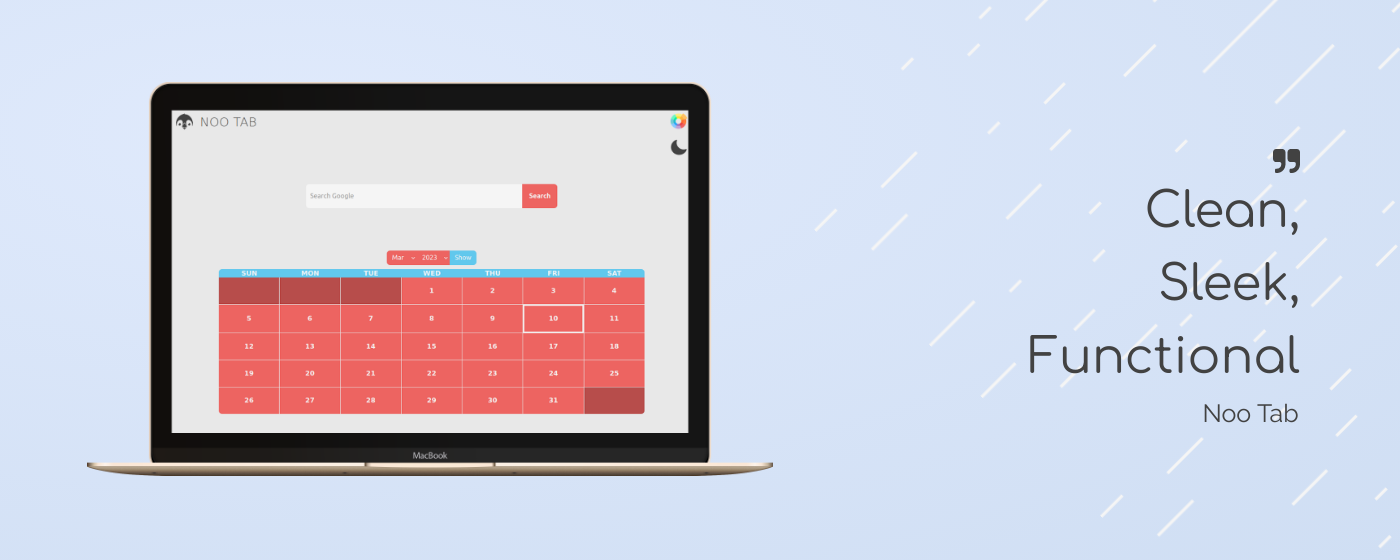
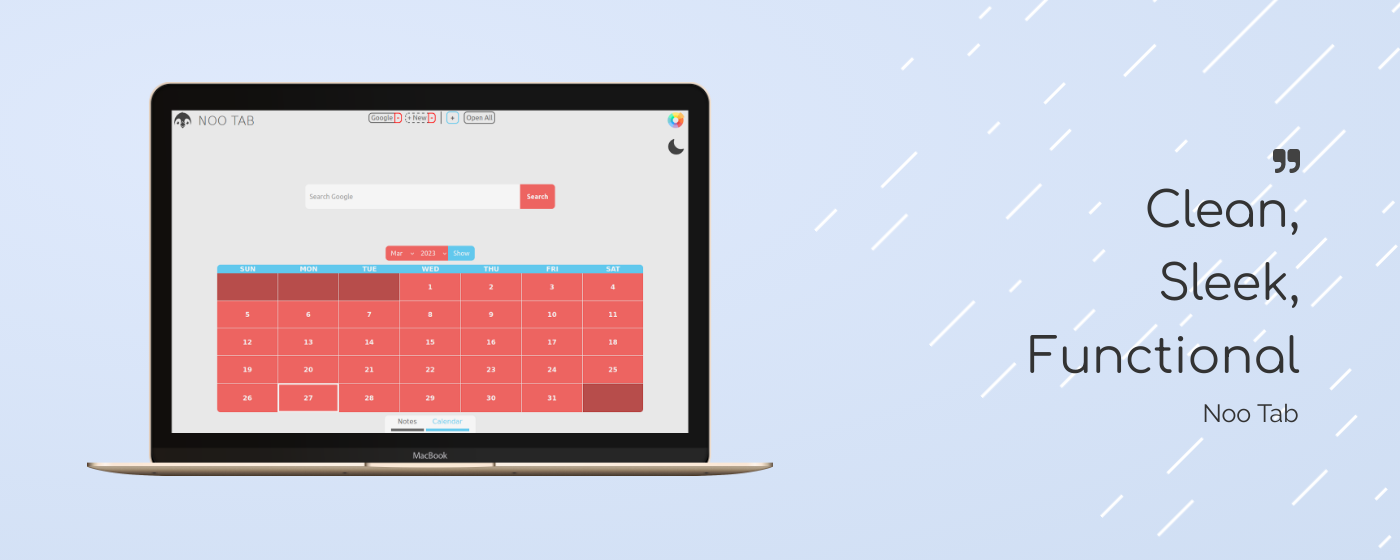
final commit

diff --git a/docs/index.js b/docs/index.js
@@ -1,1 +1,1 @@
-var calendar={monthNamesFull:["January","February","March","April","May","June","July","August","September","October","November","December"],monthNames:["Jan","Feb","Mar","Apr","May","Jun","Jul","Aug","Sep","Oct","Nov","Dec"],dayNames:["SUN","MON","TUE","WED","THU","FRI","SAT"],data:null,curDay:0,curMonth:0,curYear:0,draw:function(){calendar.curMonth=parseInt(document.getElementById("sMonth").value),calendar.curYear=parseInt(document.getElementById("sYear").value);var t=new Date(calendar.curYear,calendar.curMonth+1,0).getDate(),l=new Date(calendar.curYear,calendar.curMonth,1).getDay(),n=new Date(calendar.curYear,calendar.curMonth,t).getDay();calendar.data=localStorage.getItem("calendar"+calendar.curMonth+calendar.curYear),null==calendar.data?(localStorage.setItem("calendar"+calendar.curMonth+calendar.curYear,"{}"),calendar.data={}):calendar.data=JSON.parse(calendar.data);for(var r=[],a=0;a<l;a++)r.push(" ");for(var a=1;a<t+1;a++)r.push(a);for(var a=0;a<6-n;a++)r.push(" ");for(;r.length<42;)r.push(" ");var o=document.getElementById("calContainer"),s=document.createElement("table");s.id="calendar",o.innerHTML="";var c=document.createElement("tr");c.id="dayRow";for(var d=calendar.dayNames,i=d.length,u=document.createDocumentFragment(),a=0;a<i;a++){var m=document.createElement("td");m.innerHTML=d[a],u.appendChild(m)}c.appendChild(u),s.appendChild(c);let y=new Date,p=String(y.getDate()),g=document.createDocumentFragment();for(let v=0;v<6;v++){let h=document.createElement("tr");h.id="day";let E=0;for(let f=0;f<7;f++){let b=document.createElement("td");if(b.innerHTML=r[7*v+f]," "===r[7*v+f])b.id="empty",E++;else{let k=r[7*v+f];if(b.innerHTML=`<div class='cell'>${k}</div>`,calendar.data[k]){let B=y.getFullYear(),I=y.getMonth();if(calendar.curYear===B&&calendar.curMonth===I&&k==p){let $=calendar.data[k].replace(/\n/g,"<br>");b.innerHTML=`<div id="current-day" style="padding: 12px;"><div class='cell'>${k}</div>${$}</div>`,b.style.padding="0px",b.style.position="relative"}else{let L=calendar.data[k].replace(/\n/g,"<br>");b.innerHTML+=L}}else b.style.height="64px",calendar.curYear===y.getFullYear()&&calendar.curMonth===y.getMonth()&&k==p&&(b.innerHTML=`<div id="current-day" style="display: flex;"><div class='cell'>${k}</div></div>`,b.style.padding="0px",b.style.position="relative");b.addEventListener("click",()=>calendar.show(b))}h.appendChild(b)}7!==E&&g.appendChild(h)}s.appendChild(g),o.appendChild(s),calendar.close()},show:function(t){let l=document.getElementById("calEvent"),n=document.createElement("form");n.addEventListener("submit",calendar.save),l.innerHTML="",calendar.curDay=t.querySelector(".cell").textContent;let r="<h1>"+(calendar.data[calendar.curDay]?"EDIT EVENT":"ADD EVENT")+"</h1>";r+="<p>"+calendar.monthNamesFull[calendar.curMonth]+" "+calendar.curDay+", "+calendar.curYear+"</p>",r+="<textarea id='inputDetails' required>"+(calendar.data[calendar.curDay]||"")+"</textarea>",r+="<input type='button' value='Delete' onclick='calendar.delete()'/>",r+="<input type='button' value='Cancel' onclick='calendar.close()'/>",r+="<input type='submit' value='Save'/>",n.innerHTML=r,l.appendChild(n),l.style.display="block",setTimeout(()=>l.classList.add("show"),0);let a=l.querySelector("textarea");a.focus(),a.setSelectionRange(a.value.length,a.value.length),document.addEventListener("click",closeOnClick),document.addEventListener("keydown",closeOnClick)},save:function(t){t.stopPropagation(),t.preventDefault(),calendar.data[calendar.curDay]=document.getElementById("inputDetails").value,localStorage.setItem("calendar"+calendar.curMonth+calendar.curYear,JSON.stringify(calendar.data)),calendar.draw()},delete:function(){if(calendar.data[calendar.curDay])delete calendar.data[calendar.curDay],localStorage.setItem("calendar"+calendar.curMonth+calendar.curYear,JSON.stringify(calendar.data)),calendar.draw();else{var t=document.getElementById("calEvent").querySelector("textarea");t.value="",t.focus()}},close:function(){(e=document.getElementById("calEvent")).classList.remove("show"),e.style.display="none",document.removeEventListener("click",closeOnClick)}};function documentKeyHandler(t){if("Tab"===t.key){if("none"===document.getElementById("calEvent").style.display){t.preventDefault();var l,n=localStorage.getItem("panel-main");"calendar"==n?l="notes":"notes"==n&&(l="calendar"),openMode(l)}}else t.ctrlKey&&"s"===t.key&&"block"==document.getElementById("notes").style.display&&(t.preventDefault(),saveNote())}function logoClick(){let t=document.getElementById("logo");if("#F5F5F5"===localStorage.getItem("colour-mode-back")||null===localStorage.getItem("colour-mode-back"))t.classList.remove("animate"),t.offsetWidth,t.classList.add("animate");else{let l=document.querySelector(".zzz-container"),n=l.querySelectorAll("div");n.forEach(function(t){t.classList.add("zzz-animate"),t.textContent="Z",t.addEventListener("animationend",function(){t.classList.remove("zzz-animate"),t.textContent=""})}),t.classList.remove("pulse"),t.offsetWidth,t.classList.add("pulse")}}function popupClick(){let t=document.querySelector(".popup");localStorage.setItem("popup-dismissed","true"),t.style.display="none"}function collToggle(){this.classList.toggle("active");var t=this.nextElementSibling;t.style.maxHeight?t.style.maxHeight=null:t.style.maxHeight=t.scrollHeight+"px"}function closeOnClick(t){calEvent=document.getElementById("calEvent"),"click"==t.type?!document.querySelector("#calEvent").classList.contains("show")||calEvent.contains(t.target)||t.target.closest("td")&&"dayRow"!=t.target.closest("tr").id&&"empty"!=t.target.closest("td").id||(calendar.close(),document.removeEventListener("click",closeOnClick)):"keydown"==t.type&&"Escape"===t.key&&(calendar.close(),document.removeEventListener("keydown",closeOnClick))}function getTextColor(t){let l=parseInt(t.substr(1,2),16),n=parseInt(t.substr(3,2),16),r=parseInt(t.substr(5,2),16);return .299*l+.587*n+.114*r>186?"#424242":"#F5F5F5"}function toggleDarkMode(){let t=document.querySelector("#darkmode-button img"),l=document.querySelector("#logo img"),n="#F5F5F5",r="#424242";"images/light-mode.png"===t.getAttribute("src")?(t.src="images/dark-mode.png",l.src="images/logo-awake.png",document.documentElement.style.setProperty("--bodyback","#E8E8E8"),document.documentElement.style.setProperty("--modeback",n),document.documentElement.style.setProperty("--modetext",r),localStorage.setItem("colour-mode-back",n),localStorage.setItem("colour-mode-text",r)):(t.src="images/light-mode.png",l.src="images/logo-asleep.png",document.documentElement.style.setProperty("--bodyback","#363636"),document.documentElement.style.setProperty("--modeback",r),document.documentElement.style.setProperty("--modetext",n),localStorage.setItem("colour-mode-back",r),localStorage.setItem("colour-mode-text",n))}function hexToHsv(t){var l,n,r,a=parseInt(t.substring(1,3),16),o=parseInt(t.substring(3,5),16),s=parseInt(t.substring(5,7),16),c=Math.max(a,o,s),d=c-Math.min(a,o,s);return n=0===c?0:d/c,0===d?l=0:(l=a===c?(o-s)/d:o===c?2+(s-a)/d:4+(a-o)/d,(l*=60)<0&&(l+=360)),{h:l,s:n,v:r=c/255}}function hsvToHex(t){"string"==typeof t&&(t=JSON.parse(t));var l,n,r,a=t.v*t.s,o=a*(1-Math.abs(t.h/60%2-1)),s=t.v-a;return t.h>=0&&t.h<60?(l=a,n=o,r=0):t.h>=60&&t.h<120?(l=o,n=a,r=0):t.h>=120&&t.h<180?(l=0,n=a,r=o):t.h>=180&&t.h<240?(l=0,n=o,r=a):t.h>=240&&t.h<300?(l=o,n=0,r=a):(l=a,n=0,r=o),l=Math.round((l+s)*255),"#"+(16777216+(l<<16)+((n=Math.round((n+s)*255))<<8)+(r=Math.round((r+s)*255))).toString(16).slice(1)}function generatePalette(t){var l={},n=t.v-.21;n<0&&(n=t.v+.21);var r=t.v+.08;if(r>1&&(r=t.v-.08),10>Math.abs(98.5-t.h))var a=Math.abs(360-t.h);else var a=Math.abs(197-t.h);var o=t.v+.08;return o>1&&(o=t.v-.08),l.c1={h:t.h,s:t.s,v:n},l.c2={h:t.h,s:t.s,v:r},l.c3={h:a,s:t.s,v:t.v},l.c4={h:a,s:t.s,v:o},l}function openMode(t){var l,n,r;for(l=0,n=document.getElementsByClassName("mode");l<n.length;l++)n[l].style.display="none";for(l=0,r=document.getElementsByClassName("panel-mode");l<n.length;l++)r[l].style.borderBottom="6px solid #646464",r[l].style.color="#646464";document.getElementById(t).style.display="block",document.getElementById(t+"-select").style.borderBottom="6px solid var(--top)",document.getElementById(t+"-select").style.color="var(--top)","notes"==t?(localStorage.setItem("panel-main","notes"),document.getElementById("editor").focus()):"calendar"==t&&(localStorage.setItem("panel-main","calendar"),document.querySelector(".search-bar form input").focus())}function saveNote(){localStorage.setItem("notes-main",document.getElementById("editor").value),document.getElementById("editor-save-btn").textContent="Save",document.getElementById("editor-alert").style.display="none"}function indicateSave(){document.getElementById("editor-save-btn").textContent="*Save",document.getElementById("editor-alert").style.display="block"}function getUrlsFromStorage(){let t=JSON.parse(localStorage.getItem("urls"))||[],l=JSON.parse(localStorage.getItem("url_values"))||[];return{urls:t,values:l}}function saveUrlsToStorage(t,l){localStorage.setItem("urls",JSON.stringify(t)),localStorage.setItem("url_values",JSON.stringify(l))}function addUrlButton(){let t=document.getElementById("urlButtonContainer"),l=document.getElementById("urlDivider"),n=document.createElement("button");n.className="urlButton",n.onclick=function(){goToUrl(this)},n.innerHTML="+ New";let r=document.createElement("button");r.className="minusButton",r.onclick=function(){deleteUrlButton(this)},r.innerHTML="-",t.insertBefore(n,l),t.insertBefore(r,l),localStorage.setItem("emptyURL",!1),updateURLVisibility()}function deleteUrlButton(t){let l=document.getElementById("urlButtonContainer"),n=Array.from(l.children).indexOf(t),r=l.children[n-1],{urls:a,values:o}=getUrlsFromStorage();if(r.dataset.url){let s=a.findIndex(t=>t===r.dataset.url),c=o.findIndex(t=>t===r.dataset.value);s>-1&&a.splice(s,1),c>-1&&o.splice(c,1),saveUrlsToStorage(a,o)}l.removeChild(l.children[n]),l.removeChild(l.children[n-1]),updateURLVisibility()}function updateURLVisibility(){let t=document.getElementById("urlButtonContainer"),l=t.getElementsByClassName("urlButton").length>0;var n=this.localStorage.getItem("emptyURL");if(l&&"true"!=n){t.classList.add("hasSeturlButtons"),localStorage.setItem("emptyURL",!1);var r=document.querySelector(".urlButton.initial"),a=document.querySelector(".minusButton.initial");r&&a&&(r.style.display="block",a.style.display="block")}else t.classList.remove("hasSeturlButtons"),localStorage.setItem("emptyURL","true");"true"==n&&(t.removeChild(t.children[1]),t.removeChild(t.children[0]))}function goToUrl(t){var l=prompt("Enter the URL:"),n=prompt("(Optional) Enter the name:");if(""!==l&&null!=l){(""==n||null==n)&&(n=l.replace(/^(https?:\/\/)?(www\.)?/,"").substring(0,8),l.length>8&&(n+="..")),setupUrlButtons(t,l,n);let{urls:r,values:a}=getUrlsFromStorage();r.push(l),a.push(n),saveUrlsToStorage(r,a)}}function openAllUrls(){let t=document.querySelectorAll(".urlButton");if(t.length>0)for(let l=0;l<t.length;l++){var n=t[l].dataset.url;""!==n&&null!=n&&(n.startsWith("http://")||n.startsWith("https://")||(n="https://"+n),window.open(n,"_blank"))}}function initUrlButtons(){let{urls:t,values:l}=getUrlsFromStorage(),n=document.getElementById("urlButtonContainer"),r=document.getElementById("urlDivider");t.forEach((t,a)=>{let o=document.createElement("button");o.className="urlButton",setupUrlButtons(o,t,l[a]);let s=document.createElement("button");s.className="minusButton",s.onclick=function(){deleteUrlButton(this)},s.innerHTML="-",n.insertBefore(o,r),n.insertBefore(s,r)}),updateURLVisibility()}function setupUrlButtons(t,l,n){t.dataset.value=n,t.dataset.url=l;var r=l;l.startsWith("http://")||l.startsWith("https://")||(r="https://"+l),t.onclick=function(){window.location.href=r},t.innerText=n,t.style.borderStyle="solid",t.style.borderRight="none"}window.addEventListener("load",function(){for(var t,l=new Date,n=document.getElementById("sMonth"),r=document.getElementById("sYear"),t=0;t<12;t++){var a=document.createElement("option");a.value=t,a.innerHTML=calendar.monthNames[t],t==l.getMonth()&&(a.selected=!0),n.appendChild(a)}for(var t=2023;t<l.getFullYear()+6;t++){var a=document.createElement("option");a.value=t,a.innerHTML=t,t==l.getFullYear()&&(a.selected=!0),r.appendChild(a)}document.getElementById("btnShow").addEventListener("click",calendar.draw),calendar.draw(),document.addEventListener("keydown",documentKeyHandler);var o=localStorage.getItem("panel-main")||"calendar";document.getElementById(o).style.display="block",document.getElementById(o+"-select").style.borderBottom="6px solid var(--top)",document.getElementById(o+"-select").style.color="var(--top)",localStorage.setItem("panel-main",o);var s=localStorage.getItem("colour-main")||"#ed6461",c=hexToHsv(s),d=localStorage.getItem("colour-mode-back")||"#F5F5F5",i=localStorage.getItem("colour-mode-text")||"#424242",u=generatePalette(c);document.documentElement.style.setProperty("--main",s),document.documentElement.style.setProperty("--modeback",d),document.documentElement.style.setProperty("--modetext",i),document.documentElement.style.setProperty("--header",getTextColor(hsvToHex(u.c3))),document.documentElement.style.setProperty("--text",getTextColor(s)),document.documentElement.style.setProperty("--empty",hsvToHex(u.c1)),document.documentElement.style.setProperty("--hover",hsvToHex(u.c2)),document.documentElement.style.setProperty("--top",hsvToHex(u.c3)),document.documentElement.style.setProperty("--tophover",hsvToHex(u.c4));let m=document.querySelector(".colour-picker-button"),y=document.querySelector(".colour-picker-button img");y.src="images/colour-wheel.png",m.addEventListener("click",function(){let t=document.createElement("input");t.type="color",t.addEventListener("change",function(){var l=t.value,n=hexToHsv(l),r=generatePalette(n);document.documentElement.style.setProperty("--main",l),document.documentElement.style.setProperty("--header",getTextColor(hsvToHex(r.c3))),document.documentElement.style.setProperty("--text",getTextColor(l)),document.documentElement.style.setProperty("--empty",hsvToHex(r.c1)),document.documentElement.style.setProperty("--hover",hsvToHex(r.c2)),document.documentElement.style.setProperty("--top",hsvToHex(r.c3)),document.documentElement.style.setProperty("--tophover",hsvToHex(r.c4)),localStorage.setItem("colour-main",l)}),t.click(),t.addEventListener("blur",function(){t.remove()}),document.addEventListener("click",function(l){t.contains(l.target)||l.target===m||t.remove()})});let p=document.querySelector("#darkmode-button"),g=document.querySelector("#darkmode-button img"),v=document.querySelector("#logo img");"#424242"==d?(g.src="images/light-mode.png",v.src="images/logo-asleep.png",document.documentElement.style.setProperty("--bodyback","#363636")):(g.src="images/dark-mode.png",v.src="images/logo-awake.png",document.documentElement.style.setProperty("--bodyback","#E8E8E8")),p.addEventListener("click",toggleDarkMode);let h=document.querySelector(".popup");localStorage.getItem("popup-dismissed")?h.style.display="none":h.style.display="block",document.getElementById("close-popup").addEventListener("click",popupClick);var E=document.getElementsByClassName("collapsible");for(t=0;t<E.length;t++)E[t].addEventListener("click",collToggle);document.getElementById("logo").addEventListener("click",logoClick);var f=document.querySelector(".search-bar form input");f.focus(),f.style.background="var(--modeback)";var f=document.querySelector(".search-bar form button");f.style.background="var(--main)",document.querySelector(".panel-select").style.background="var(--modeback)",document.querySelector("#plusButton").style.display="block",initUrlButtons();var b=JSON.parse(localStorage.getItem("urls"));if(b&&b.length>0){let k=document.getElementById("urlButtonContainer");k.removeChild(k.children[1]),k.removeChild(k.children[0])}let B=localStorage.getItem("notes-main")||"";document.getElementById("editor").value=B,document.getElementById("editor-save-btn").addEventListener("click",saveNote),document.getElementById("editor").addEventListener("input",indicateSave)});
+var calendar={monthNamesFull:["January","February","March","April","May","June","July","August","September","October","November","December"],monthNames:["Jan","Feb","Mar","Apr","May","Jun","Jul","Aug","Sep","Oct","Nov","Dec"],dayNames:["SUN","MON","TUE","WED","THU","FRI","SAT"],data:null,curDay:0,curMonth:0,curYear:0,draw:function(){calendar.curMonth=parseInt(document.getElementById("sMonth").value),calendar.curYear=parseInt(document.getElementById("sYear").value);var t=new Date(calendar.curYear,calendar.curMonth+1,0).getDate(),l=new Date(calendar.curYear,calendar.curMonth,1).getDay(),n=new Date(calendar.curYear,calendar.curMonth,t).getDay();calendar.data=localStorage.getItem("calendar"+calendar.curMonth+calendar.curYear),null==calendar.data?(localStorage.setItem("calendar"+calendar.curMonth+calendar.curYear,"{}"),calendar.data={}):calendar.data=JSON.parse(calendar.data);for(var r=[],a=0;a<l;a++)r.push(" ");for(var a=1;a<t+1;a++)r.push(a);for(var a=0;a<6-n;a++)r.push(" ");for(;r.length<42;)r.push(" ");var o=document.getElementById("calContainer"),s=document.createElement("table");s.id="calendar",o.innerHTML="";var c=document.createElement("tr");c.id="dayRow";for(var d=calendar.dayNames,i=d.length,u=document.createDocumentFragment(),a=0;a<i;a++){var m=document.createElement("td");m.innerHTML=d[a],u.appendChild(m)}c.appendChild(u),s.appendChild(c);let y=new Date,p=String(y.getDate()),g=document.createDocumentFragment();for(let v=0;v<6;v++){let h=document.createElement("tr");h.id="day";let E=0;for(let f=0;f<7;f++){let b=document.createElement("td");if(b.innerHTML=r[7*v+f]," "===r[7*v+f])b.id="empty",E++;else{let k=r[7*v+f];if(b.innerHTML=`<div class='cell'>${k}</div>`,calendar.data[k]){let I=y.getFullYear(),B=y.getMonth();if(calendar.curYear===I&&calendar.curMonth===B&&k==p){let $=calendar.data[k].replace(/\n/g,"<br>");b.innerHTML=`<div id="current-day" style="padding: 12px;"><div class='cell'>${k}</div>${$}</div>`,b.style.padding="0px",b.style.position="relative"}else{let L=calendar.data[k].replace(/\n/g,"<br>");b.innerHTML+=L}}else b.style.height="64px",calendar.curYear===y.getFullYear()&&calendar.curMonth===y.getMonth()&&k==p&&(b.innerHTML=`<div id="current-day" style="display: flex;"><div class='cell'>${k}</div></div>`,b.style.padding="0px",b.style.position="relative");b.addEventListener("click",()=>calendar.show(b))}h.appendChild(b)}7!==E&&g.appendChild(h)}s.appendChild(g),o.appendChild(s),calendar.close()},show:function(t){let l=document.getElementById("calEvent"),n=document.createElement("form");n.addEventListener("submit",calendar.save),l.innerHTML="",calendar.curDay=t.querySelector(".cell").textContent;let r="<h1>"+(calendar.data[calendar.curDay]?"EDIT EVENT":"ADD EVENT")+"</h1>";r+="<p>"+calendar.monthNamesFull[calendar.curMonth]+" "+calendar.curDay+", "+calendar.curYear+"</p>",r+="<textarea id='inputDetails' required>"+(calendar.data[calendar.curDay]||"")+"</textarea>",r+="<input type='button' value='Delete' onclick='calendar.delete()'/>",r+="<input type='button' value='Cancel' onclick='calendar.close()'/>",r+="<input type='submit' value='Save'/>",n.innerHTML=r,l.appendChild(n),l.style.display="block",setTimeout(()=>l.classList.add("show"),0);let a=l.querySelector("textarea");a.focus(),a.setSelectionRange(a.value.length,a.value.length),document.addEventListener("click",closeOnClick),document.addEventListener("keydown",closeOnClick)},save:function(t){t.stopPropagation(),t.preventDefault(),calendar.data[calendar.curDay]=document.getElementById("inputDetails").value,localStorage.setItem("calendar"+calendar.curMonth+calendar.curYear,JSON.stringify(calendar.data)),calendar.draw()},delete:function(){if(calendar.data[calendar.curDay])delete calendar.data[calendar.curDay],localStorage.setItem("calendar"+calendar.curMonth+calendar.curYear,JSON.stringify(calendar.data)),calendar.draw();else{var t=document.getElementById("calEvent").querySelector("textarea");t.value="",t.focus()}},close:function(){(e=document.getElementById("calEvent")).classList.remove("show"),e.style.display="none",document.removeEventListener("click",closeOnClick)}};function documentKeyHandler(t){if("Tab"===t.key){if("none"===document.getElementById("calEvent").style.display){t.preventDefault();var l,n=localStorage.getItem("panel-main");"calendar"==n?l="notes":"notes"==n&&(l="calendar"),openMode(l)}}else t.ctrlKey&&"s"===t.key&&"block"==document.getElementById("notes").style.display&&(t.preventDefault(),saveNote())}function logoClick(){let t=document.getElementById("logo");if("#F5F5F5"===localStorage.getItem("colour-mode-back")||null===localStorage.getItem("colour-mode-back"))t.classList.remove("animate"),t.offsetWidth,t.classList.add("animate");else{let l=document.querySelector(".zzz-container"),n=l.querySelectorAll("div");n.forEach(function(t){t.classList.add("zzz-animate"),t.textContent="Z",t.addEventListener("animationend",function(){t.classList.remove("zzz-animate"),t.textContent=""})}),t.classList.remove("pulse"),t.offsetWidth,t.classList.add("pulse")}}function popupClick(){let t=document.querySelector(".popup");localStorage.setItem("popup-dismissed","true"),t.style.display="none"}function collToggle(){this.classList.toggle("active");var t=this.nextElementSibling;t.style.maxHeight?t.style.maxHeight=null:t.style.maxHeight=t.scrollHeight+"px"}function closeOnClick(t){calEvent=document.getElementById("calEvent"),"click"==t.type?!document.querySelector("#calEvent").classList.contains("show")||calEvent.contains(t.target)||t.target.closest("td")&&"dayRow"!=t.target.closest("tr").id&&"empty"!=t.target.closest("td").id||(calendar.close(),document.removeEventListener("click",closeOnClick)):"keydown"==t.type&&"Escape"===t.key&&(calendar.close(),document.removeEventListener("keydown",closeOnClick))}function getTextColor(t){let l=parseInt(t.substr(1,2),16),n=parseInt(t.substr(3,2),16),r=parseInt(t.substr(5,2),16);return .299*l+.587*n+.114*r>186?"#424242":"#F5F5F5"}function toggleDarkMode(){let t=document.querySelector("#darkmode-button img"),l=document.querySelector("#logo img"),n="#F5F5F5",r="#424242";"images/light-mode.png"===t.getAttribute("src")?(t.src="images/dark-mode.png",l.src="images/logo-awake.png",document.documentElement.style.setProperty("--bodyback","#E8E8E8"),document.documentElement.style.setProperty("--popupback","#646464"),document.documentElement.style.setProperty("--modeback",n),document.documentElement.style.setProperty("--modetext",r),localStorage.setItem("popup-back","#646464"),localStorage.setItem("colour-mode-back",n),localStorage.setItem("colour-mode-text",r)):(t.src="images/light-mode.png",l.src="images/logo-asleep.png",document.documentElement.style.setProperty("--bodyback","#363636"),document.documentElement.style.setProperty("--popupback","#E8E8E8"),document.documentElement.style.setProperty("--modeback",r),document.documentElement.style.setProperty("--modetext",n),localStorage.setItem("popup-back","#E8E8E8"),localStorage.setItem("colour-mode-back",r),localStorage.setItem("colour-mode-text",n))}function hexToHsv(t){var l,n,r,a=parseInt(t.substring(1,3),16),o=parseInt(t.substring(3,5),16),s=parseInt(t.substring(5,7),16),c=Math.max(a,o,s),d=c-Math.min(a,o,s);return n=0===c?0:d/c,0===d?l=0:(l=a===c?(o-s)/d:o===c?2+(s-a)/d:4+(a-o)/d,(l*=60)<0&&(l+=360)),{h:l,s:n,v:r=c/255}}function hsvToHex(t){"string"==typeof t&&(t=JSON.parse(t));var l,n,r,a=t.v*t.s,o=a*(1-Math.abs(t.h/60%2-1)),s=t.v-a;return t.h>=0&&t.h<60?(l=a,n=o,r=0):t.h>=60&&t.h<120?(l=o,n=a,r=0):t.h>=120&&t.h<180?(l=0,n=a,r=o):t.h>=180&&t.h<240?(l=0,n=o,r=a):t.h>=240&&t.h<300?(l=o,n=0,r=a):(l=a,n=0,r=o),l=Math.round((l+s)*255),"#"+(16777216+(l<<16)+((n=Math.round((n+s)*255))<<8)+(r=Math.round((r+s)*255))).toString(16).slice(1)}function generatePalette(t){var l={},n=t.v-.21;n<0&&(n=t.v+.21);var r=t.v+.08;if(r>1&&(r=t.v-.08),10>Math.abs(98.5-t.h))var a=Math.abs(360-t.h);else var a=Math.abs(197-t.h);var o=t.v+.08;return o>1&&(o=t.v-.08),l.c1={h:t.h,s:t.s,v:n},l.c2={h:t.h,s:t.s,v:r},l.c3={h:a,s:t.s,v:t.v},l.c4={h:a,s:t.s,v:o},l}function openMode(t){var l,n,r;for(l=0,n=document.getElementsByClassName("mode");l<n.length;l++)n[l].style.display="none";for(l=0,r=document.getElementsByClassName("panel-mode");l<n.length;l++)r[l].style.borderBottom="6px solid #646464",r[l].style.color="#646464";document.getElementById(t).style.display="block",document.getElementById(t+"-select").style.borderBottom="6px solid var(--top)",document.getElementById(t+"-select").style.color="var(--top)","notes"==t?(localStorage.setItem("panel-main","notes"),document.getElementById("editor").focus()):"calendar"==t&&(localStorage.setItem("panel-main","calendar"),document.querySelector(".search-bar form input").focus())}function saveNote(){localStorage.setItem("notes-main",document.getElementById("editor").value),document.getElementById("editor-save-btn").textContent="Save",document.getElementById("editor-alert").style.display="none"}function indicateSave(){document.getElementById("editor-save-btn").textContent="*Save",document.getElementById("editor-alert").style.display="block"}function getUrlsFromStorage(){let t=JSON.parse(localStorage.getItem("urls"))||[],l=JSON.parse(localStorage.getItem("url_values"))||[];return{urls:t,values:l}}function saveUrlsToStorage(t,l){localStorage.setItem("urls",JSON.stringify(t)),localStorage.setItem("url_values",JSON.stringify(l))}function addUrlButton(){let t=document.getElementById("urlButtonContainer"),l=document.getElementById("urlDivider"),n=document.createElement("button");n.className="urlButton",n.onclick=function(){goToUrl(this)},n.innerHTML="+ New";let r=document.createElement("button");r.className="minusButton",r.onclick=function(){deleteUrlButton(this)},r.innerHTML="-",t.insertBefore(n,l),t.insertBefore(r,l),localStorage.setItem("emptyURL",!1),updateURLVisibility()}function deleteUrlButton(t){let l=document.getElementById("urlButtonContainer"),n=Array.from(l.children).indexOf(t),r=l.children[n-1],{urls:a,values:o}=getUrlsFromStorage();if(r.dataset.url){let s=a.findIndex(t=>t===r.dataset.url),c=o.findIndex(t=>t===r.dataset.value);s>-1&&a.splice(s,1),c>-1&&o.splice(c,1),saveUrlsToStorage(a,o)}l.removeChild(l.children[n]),l.removeChild(l.children[n-1]),updateURLVisibility()}function updateURLVisibility(){let t=document.getElementById("urlButtonContainer"),l=t.getElementsByClassName("urlButton").length>0;var n=this.localStorage.getItem("emptyURL");if(l&&"true"!=n){t.classList.add("hasSeturlButtons"),localStorage.setItem("emptyURL",!1);var r=document.querySelector(".urlButton.initial"),a=document.querySelector(".minusButton.initial");r&&a&&(r.style.display="block",a.style.display="block")}else t.classList.remove("hasSeturlButtons"),localStorage.setItem("emptyURL","true");"true"==n&&(t.removeChild(t.children[1]),t.removeChild(t.children[0]))}function goToUrl(t){var l=prompt("Enter the URL:"),n=prompt("(Optional) Enter the name:");if(""!==l&&null!=l){(""==n||null==n)&&(n=l.replace(/^(https?:\/\/)?(www\.)?/,"").substring(0,8),l.length>8&&(n+="..")),setupUrlButtons(t,l,n);let{urls:r,values:a}=getUrlsFromStorage();r.push(l),a.push(n),saveUrlsToStorage(r,a)}}function openAllUrls(){let t=document.querySelectorAll(".urlButton");if(t.length>0)for(let l=0;l<t.length;l++){var n=t[l].dataset.url;""!==n&&null!=n&&(n.startsWith("http://")||n.startsWith("https://")||(n="https://"+n),window.open(n,"_blank"))}}function initUrlButtons(){let{urls:t,values:l}=getUrlsFromStorage(),n=document.getElementById("urlButtonContainer"),r=document.getElementById("urlDivider");t.forEach((t,a)=>{let o=document.createElement("button");o.className="urlButton",setupUrlButtons(o,t,l[a]);let s=document.createElement("button");s.className="minusButton",s.onclick=function(){deleteUrlButton(this)},s.innerHTML="-",n.insertBefore(o,r),n.insertBefore(s,r)}),updateURLVisibility()}function setupUrlButtons(t,l,n){t.dataset.value=n,t.dataset.url=l;var r=l;l.startsWith("http://")||l.startsWith("https://")||(r="https://"+l),t.onclick=function(){window.location.href=r},t.innerText=n,t.style.borderStyle="solid",t.style.borderRight="none"}window.addEventListener("load",function(){for(var t,l=new Date,n=document.getElementById("sMonth"),r=document.getElementById("sYear"),t=0;t<12;t++){var a=document.createElement("option");a.value=t,a.innerHTML=calendar.monthNames[t],t==l.getMonth()&&(a.selected=!0),n.appendChild(a)}for(var t=2023;t<l.getFullYear()+6;t++){var a=document.createElement("option");a.value=t,a.innerHTML=t,t==l.getFullYear()&&(a.selected=!0),r.appendChild(a)}document.getElementById("btnShow").addEventListener("click",calendar.draw),calendar.draw(),document.addEventListener("keydown",documentKeyHandler);var o=localStorage.getItem("panel-main")||"calendar";document.getElementById(o).style.display="block",document.getElementById(o+"-select").style.borderBottom="6px solid var(--top)",document.getElementById(o+"-select").style.color="var(--top)",localStorage.setItem("panel-main",o);var s=localStorage.getItem("colour-main")||"#ed6461",c=hexToHsv(s),d=localStorage.getItem("colour-mode-back")||"#F5F5F5",i=localStorage.getItem("colour-mode-text")||"#424242",u=localStorage.getItem("popup-back")||"#646464",m=generatePalette(c);document.documentElement.style.setProperty("--main",s),document.documentElement.style.setProperty("--modeback",d),document.documentElement.style.setProperty("--modetext",i),document.documentElement.style.setProperty("--popupback",u),document.documentElement.style.setProperty("--header",getTextColor(hsvToHex(m.c3))),document.documentElement.style.setProperty("--text",getTextColor(s)),document.documentElement.style.setProperty("--empty",hsvToHex(m.c1)),document.documentElement.style.setProperty("--hover",hsvToHex(m.c2)),document.documentElement.style.setProperty("--top",hsvToHex(m.c3)),document.documentElement.style.setProperty("--tophover",hsvToHex(m.c4));let y=document.querySelector(".colour-picker-button"),p=document.querySelector(".colour-picker-button img");p.src="images/colour-wheel.png",y.addEventListener("click",function(){let t=document.createElement("input");t.type="color",t.addEventListener("change",function(){var l=t.value,n=hexToHsv(l),r=generatePalette(n);document.documentElement.style.setProperty("--main",l),document.documentElement.style.setProperty("--header",getTextColor(hsvToHex(r.c3))),document.documentElement.style.setProperty("--text",getTextColor(l)),document.documentElement.style.setProperty("--empty",hsvToHex(r.c1)),document.documentElement.style.setProperty("--hover",hsvToHex(r.c2)),document.documentElement.style.setProperty("--top",hsvToHex(r.c3)),document.documentElement.style.setProperty("--tophover",hsvToHex(r.c4)),localStorage.setItem("colour-main",l)}),t.click(),t.addEventListener("blur",function(){t.remove()}),document.addEventListener("click",function(l){t.contains(l.target)||l.target===y||t.remove()})});let g=document.querySelector("#darkmode-button"),v=document.querySelector("#darkmode-button img"),h=document.querySelector("#logo img");"#424242"==d?(v.src="images/light-mode.png",h.src="images/logo-asleep.png",document.documentElement.style.setProperty("--bodyback","#363636")):(v.src="images/dark-mode.png",h.src="images/logo-awake.png",document.documentElement.style.setProperty("--bodyback","#E8E8E8")),g.addEventListener("click",toggleDarkMode);let E=document.querySelector(".popup");localStorage.getItem("popup-dismissed")?E.style.display="none":E.style.display="block",document.getElementById("close-popup").addEventListener("click",popupClick);var f=document.getElementsByClassName("collapsible");for(t=0;t<f.length;t++)f[t].addEventListener("click",collToggle);document.getElementById("logo").addEventListener("click",logoClick);var b=document.querySelector(".search-bar form input");b.focus(),b.style.background="var(--modeback)";var b=document.querySelector(".search-bar form button");b.style.background="var(--main)",document.querySelector(".panel-select").style.background="var(--modeback)",document.querySelector("#plusButton").style.display="block",initUrlButtons();var k=JSON.parse(localStorage.getItem("urls"));if(k&&k.length>0){let I=document.getElementById("urlButtonContainer");I.removeChild(I.children[1]),I.removeChild(I.children[0])}let B=localStorage.getItem("notes-main")||"";document.getElementById("editor").value=B,document.getElementById("editor-save-btn").addEventListener("click",saveNote),document.getElementById("editor").addEventListener("input",indicateSave)});

diff --git a/docs/index.html b/docs/index.html
@@ -21,7 +21,7 @@
 		<div id="popup" class="popup">
 			<span class="close" id="close-popup">&times;</span>
 			<p>Welcome to Noo Tab!</p>
-			<button type="button" class="collapsible" id="collapsible-first">Using the Calendar</button>
+			<button type="button" class="collapsible border">Using the Calendar</button>
 			<div class="content">
 				<p><b>Adding, Removing, and Editing Events</b></p>
 				<p>Click a day on the calendar.</p>
@@ -32,9 +32,28 @@
 				<p>Choose a month and year from the dropdown menus.</p>
 				<p>Click "Show" to switch to the chosen month and year.</p>
 			</div>
+			<button type="button" class="collapsible border">Using Bookmarks</button>
+			<div class="content">
+				<p><b>Adding and Removing Bookmarks</b></p>
+				<p>Click the plus button at the top of the page.</p>
+				<p>Click on the "+ New" bookmark and enter the URL.</p>
+				<p>(Optional) Add a name to your bookmark.</p>
+				<p>Click the minus button next to a bookmark to remove it.</p>
+				<p><b>Opening Bookmarks</b></p>
+				<p>Click a bookmark to open it in the current tab.</p>
+				<p>Open all bookmarks in separate tabs by clicking "Open All".</p>
+				<div id="popup-warning">
+					<p>Your browser may block multiple tabs from opening the first time you use the "Open All" feature.</p>
+					<p>Allow popups from nootab.com in the prompt that appears if you want the "Open All" feature to work fully.</p>
+				</div>
+			</div>
 			<button type="button" class="collapsible">Additional Features</button>
 			<div class="content">
-				<p><b>Colour Wheel</b></p>
+				<p><b>Navigation</b></p>
+				<p>Switch between calendar and notes view using the tabs at the bottom of the screen or by pressing the tab key.</p>
+				<b>Notes</b>
+				<p>Take notes using the notes tab and save them securely by clicking the save button or using the keyboard shortcut Ctrl+S.<br><br>Your data will be stored locally in your browser.</p>
+				<b>Colour Wheel</b>
 				<p>Click to change the site's colour theme.</p>
 				<b>Dark Mode Toggle</b>
 				<p>Use the icon to switch between dark and light mode.</p>

diff --git a/index-clean.js b/index-clean.js
@@ -238,11 +238,13 @@ window.addEventListener("load", function() {
 	var main_colour_hsv = hexToHsv(main_colour);
 	var main_mode_back = localStorage.getItem("colour-mode-back") || '#F5F5F5';
 	var main_mode_text = localStorage.getItem("colour-mode-text") || '#424242';
+    var main_popup_back = localStorage.getItem("popup-back") || '#646464';
 
 	var palette = generatePalette(main_colour_hsv);
 	document.documentElement.style.setProperty('--main', main_colour);
 	document.documentElement.style.setProperty('--modeback', main_mode_back);
 	document.documentElement.style.setProperty('--modetext', main_mode_text);
+    document.documentElement.style.setProperty('--popupback', main_popup_back);
 	document.documentElement.style.setProperty('--header', getTextColor(hsvToHex(palette.c3)));
 	document.documentElement.style.setProperty('--text', getTextColor(main_colour));
 	document.documentElement.style.setProperty('--empty', hsvToHex(palette.c1));
@@ -459,16 +461,20 @@ function toggleDarkMode() {
 		darkmode_image.src = 'images/dark-mode.png';
 		logo.src = "images/logo-awake.png";
 		document.documentElement.style.setProperty('--bodyback', "#E8E8E8");
+        document.documentElement.style.setProperty('--popupback', "#646464");
 		document.documentElement.style.setProperty('--modeback', light);
 		document.documentElement.style.setProperty('--modetext', dark);
+		localStorage.setItem('popup-back', "#646464");
 		localStorage.setItem('colour-mode-back', light);
 		localStorage.setItem('colour-mode-text', dark);
 	} else {
 		darkmode_image.src = 'images/light-mode.png';
 		logo.src = "images/logo-asleep.png";
 		document.documentElement.style.setProperty('--bodyback', "#363636");
+        document.documentElement.style.setProperty('--popupback', "#E8E8E8");
 		document.documentElement.style.setProperty('--modeback', dark);
 		document.documentElement.style.setProperty('--modetext', light);
+		localStorage.setItem('popup-back', "#E8E8E8");
 		localStorage.setItem('colour-mode-back', dark);
 		localStorage.setItem('colour-mode-text', light);
 	}

diff --git a/docs/index.css b/docs/index.css
@@ -10,6 +10,7 @@
 	--hover: #ff7572;
 	--tophover: #ff7572;
 	--backtext: #646464;
+	--popupback: #646464;
 }
 
 body {
@@ -363,6 +364,14 @@ th {
 	color: var(--modeback);
 }
 
+#popup-warning {
+	color: var(--modeback);
+	background: var(--popupback);
+	border-radius: 8px;
+	padding: 1px 6px 1px 6px;
+	margin-bottom: 16px;
+}
+
 .close {
 	position: absolute;
 	top: 0;
@@ -402,14 +411,16 @@ th {
 	font-weight: bold;
 }
 
-#collapsible-first {
+.collapsible.border {
 	border-bottom: 1px solid var(--modetext);
 }
 
-.active#collapsible-first,
+.active.collapsible.border {
+	border-bottom: none;
+}
+
 .collapsible:hover {
 	background-color: var(--hover);
-	border-bottom: none;
 }
 
 .active,
@@ -749,9 +760,9 @@ th {
 }
 
 .minusButton {
-  border: 2px solid red;
+  border: 2px solid #ff5353;
   background: transparent;
-  color: red;
+  color: #ff5353;
   font-weight: bold;
   font-size: 1em;
   cursor: pointer;
@@ -762,7 +773,6 @@ th {
 
 .minusButton:hover {
 	color: var(--backtext);
-	border-color: #ff5353;
 	background: #ff5353;
 }
 
@@ -777,7 +787,7 @@ th {
 #plusButton {
   border: 2px solid var(--top);
   background: transparent;
-  color: var(--backtext);
+  color: var(--top);
   font-weight: bold;
   font-size: 1em;
   cursor: pointer;
@@ -790,6 +800,7 @@ th {
 
 #plusButton:hover {
 	background: var(--top);
+	color: var(--backtext);
 }
 
 #openAllUrlsButton {
